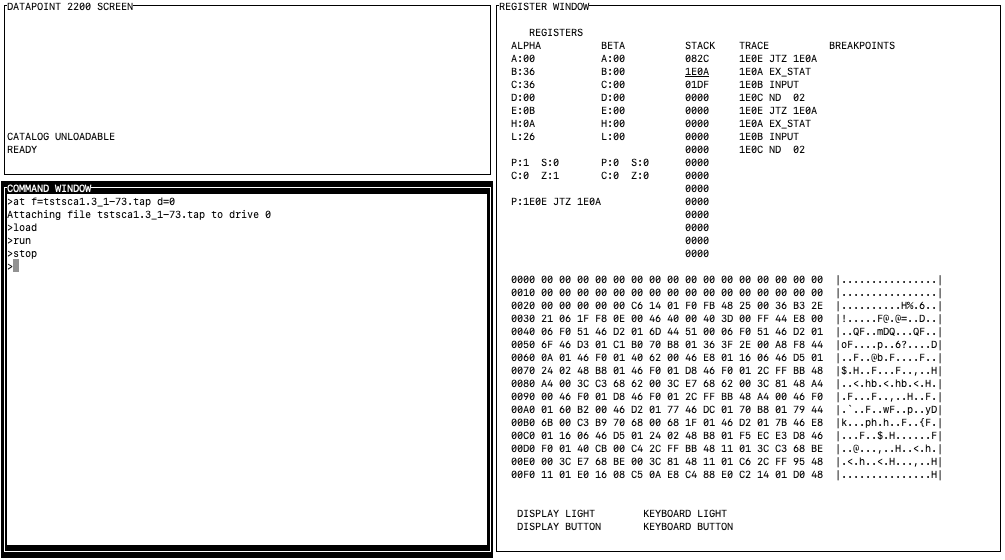
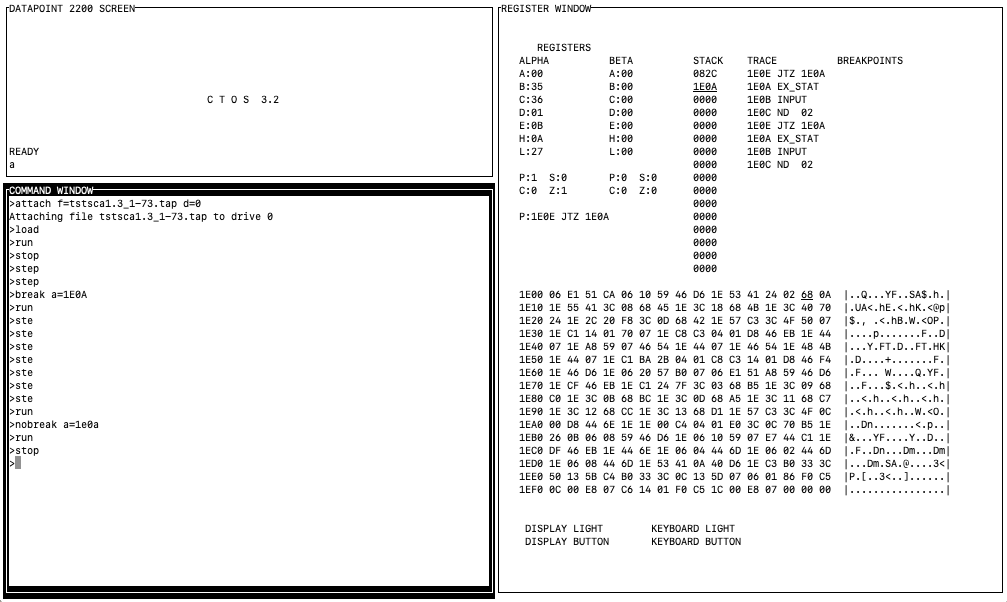
Now actually is able to start the CTIS opeating system.

Changed region(s): [[0.0, 0.0, 1.0, 1.0], [0.2159, 0.1518, 0.2776, 0.1821]]

diff --git a/dp2200sim/dp2200_io_sim.cpp b/dp2200sim/dp2200_io_sim.cpp
@@ -141,22 +141,36 @@ int IOController::CassetteDevice::exDeck2() {
   return 0;
 }
 int IOController::CassetteDevice::exRBK() {
-  return 1;
+  tapeDrive[tapeDeckSelected]->setTapeDirectionForward(true);
+  tapeDrive[tapeDeckSelected]->setStopAttBlockGap(true);
+  statusRegister &= ~(CASSETTE_STATUS_DECK_READY | CASSETTE_STATUS_READ_READY); // Clear ready bit
+  tapeDrive[tapeDeckSelected]->readByte(std::bind(&IOController::CassetteDevice::updateDataRegisterAndSetStatusRegister, this, std::placeholders::_1));
+  return 0;
 }
 int IOController::CassetteDevice::exWBK() {
   return 1;
 }
 int IOController::CassetteDevice::exBSP() {
-  statusRegister |= (CASSETTE_STATUS_INTER_RECORD_GAP);
+  tapeDrive[tapeDeckSelected]->setTapeDirectionForward(false);
+  tapeDrive[tapeDeckSelected]->setStopAttBlockGap(true);
+  statusRegister &= ~(CASSETTE_STATUS_DECK_READY | CASSETTE_STATUS_READ_READY); // Clear ready bit
+  tapeDrive[tapeDeckSelected]->readByteBackwards(std::bind(&IOController::CassetteDevice::updateDataRegisterAndSetStatusRegister, this, std::placeholders::_1));
+
   return 0;
 }
 int IOController::CassetteDevice::exSF() {
+  tapeDrive[tapeDeckSelected]->setTapeDirectionForward(true);
+  tapeDrive[tapeDeckSelected]->setStopAttBlockGap(false);
   statusRegister &= ~(CASSETTE_STATUS_DECK_READY | CASSETTE_STATUS_READ_READY); // Clear ready bit
   tapeDrive[tapeDeckSelected]->readByte(std::bind(&IOController::CassetteDevice::updateDataRegisterAndSetStatusRegister, this, std::placeholders::_1));
   return 0;
 }
 int IOController::CassetteDevice::exSB() {
-  return 1;
+  tapeDrive[tapeDeckSelected]->setTapeDirectionForward(false);
+  tapeDrive[tapeDeckSelected]->setStopAttBlockGap(false);
+  statusRegister &= ~(CASSETTE_STATUS_DECK_READY | CASSETTE_STATUS_READ_READY); // Clear ready bit
+  tapeDrive[tapeDeckSelected]->readByteBackwards(std::bind(&IOController::CassetteDevice::updateDataRegisterAndSetStatusRegister, this, std::placeholders::_1));
+  return 0;
 }
 int IOController::CassetteDevice::exRewind() {
   return 1;
@@ -176,8 +190,8 @@ void IOController::CassetteDevice::updateDataRegisterAndSetStatusRegister( unsig
 IOController::CassetteDevice::CassetteDevice () {
   tapeRunning = false;
   tapeDeckSelected = 1;   
-  tapeDrive[0] = new CassetteTape(std::bind(&IOController::CassetteDevice::updateTapGapFlag, this, std::placeholders::_1));
-  tapeDrive[1] = new CassetteTape(std::bind(&IOController::CassetteDevice::updateTapGapFlag, this, std::placeholders::_1));
+  tapeDrive[0] = new CassetteTape(std::bind(&IOController::CassetteDevice::updateTapGapFlag, this, std::placeholders::_1), std::bind(&IOController::CassetteDevice::updateReadyFlag, this, std::placeholders::_1));
+  tapeDrive[1] = new CassetteTape(std::bind(&IOController::CassetteDevice::updateTapGapFlag, this, std::placeholders::_1), std::bind(&IOController::CassetteDevice::updateReadyFlag, this, std::placeholders::_1));
 }
 
 
@@ -203,6 +217,17 @@ void IOController::CassetteDevice::updateTapGapFlag(bool gap) {
     statusRegister &= ~(CASSETTE_STATUS_INTER_RECORD_GAP);
   }
 }
+
+void IOController::CassetteDevice::updateReadyFlag(bool gap) {
+  printLog("INFO", "Setting tap gap to %d\n", gap);
+  if (gap) {
+    statusRegister |= (CASSETTE_STATUS_DECK_READY);
+  } else {
+    statusRegister &= ~(CASSETTE_STATUS_DECK_READY);
+  }
+}
+
+
 
 unsigned char IOController::ScreenKeyboardDevice::input () {
   if (status) {

diff --git a/dp2200sim/cassetteTape.cpp b/dp2200sim/cassetteTape.cpp
@@ -9,9 +9,10 @@ class callbackRecord * addToTimerQueue(std::function<int(class callbackRecord *)
 
 void timeoutInNanosecs (struct timespec *, long);
 
-CassetteTape::CassetteTape(std::function<void(bool)> cb) {
+CassetteTape::CassetteTape(std::function<void(bool)> cb, std::function<void(bool)> rcb) {
   state=TAPE_GAP;
   tapeGapCb = cb;
+  deckReadyCb = rcb;
 }
 
 bool CassetteTape::openFile(std::string fileName) {
@@ -122,12 +123,12 @@ void CassetteTape::readByte(std::function<void(unsigned char)> cb) {
     //tapeGapCb(false);
     readBytes=0;
     //tapeGapCb(true);
-    timeout = 700000000;
+    timeout = 70000000;
     timeoutInNanosecs(&then, timeout);
     printLog("INFO", "Adding a readByteHandler to handle read in %d nanoseconds\n", timeout);
     outStandingCallbacks.push_back( addToTimerQueue([ct=this, tcb = tapeGapCb](class callbackRecord * c)->int {printLog("INFO", "70ms tapeGapCb(true) timeout ENTRY\n");ct->removeFromOutstandCallbacks(c); tcb(false);ct->timeoutReadByteHandler(); printLog("INFO", "70ms tapeGapCb(true) timeout EXIT\n");return 0;}, then));
   } else {
-    timeout = 28000000;
+    timeout = 2800000;
     timeoutInNanosecs(&then, timeout);
     printLog("INFO", "Adding a readByteHandler to handle read in %d nanoseconds\n", timeout);
     outStandingCallbacks.push_back( addToTimerQueue([ct=this](class callbackRecord * c)->int {ct->removeFromOutstandCallbacks(c);ct->timeoutReadByteHandler(); return 0;}, then));
@@ -156,6 +157,7 @@ int CassetteTape::timeoutReadByteHandler() {
     printLog("INFO", "timeoutReadByteHandler read end of record size marker = %d \n", dummy);
     if (stopAtTapeGap) {
       stopTapeMotion();
+      deckReadyCb(true);
     } else {
       readByte(readCb);
     }
@@ -217,11 +219,12 @@ int CassetteTape::timeoutReadByteBackwardsHandler() {
     printLog("INFO", "timeoutReadByteHandler read end of record size marker = %d \n", dummy);
     if (stopAtTapeGap) {
       stopTapeMotion();
+      deckReadyCb(true);
     } else {
-      readByte(readCb);
+      readByteBackwards(readCb);
     }
   } else {
-    readByte(readCb);
+    readByteBackwards(readCb);
   }
   data = (data & 0x80) >> 7 | (data & 0x40) >> 5 | (data & 0x20) >> 3 | (data & 0x10) >> 1 | (data & 0x8) << 1 | (data & 0x4) << 3 | (data & 0x2) << 5 | (data & 0x1) <<7;
   readCb(data); // data has to be reversed bit order for backwards reading!

diff --git a/dp2200sim/cassetteTape.h b/dp2200sim/cassetteTape.h
@@ -22,11 +22,12 @@ class CassetteTape {
   bool stopAtTapeGap;
   std::function<void(unsigned char)> readCb;
   std::function<void(bool)> tapeGapCb;
+  std::function<void(bool)> deckReadyCb;
   std::vector<class callbackRecord *>outStandingCallbacks;
   void removeFromOutstandCallbacks (class callbackRecord *);
   public:
 
-  CassetteTape(std::function<void(bool)> );
+  CassetteTape(std::function<void(bool)>, std::function<void(bool)> );
 
   bool openFile (std::string fileName);
   void closeFile ();

diff --git a/dp2200sim/dp2200_io_sim.h b/dp2200sim/dp2200_io_sim.h
@@ -60,6 +60,7 @@ class IOController {
     bool tapeRunning; 
     int tapeDeckSelected;
     void updateTapGapFlag(bool);
+    void updateReadyFlag(bool);
     public:
     CassetteTape * tapeDrive[2];
     unsigned char input ();

diff --git a/dp2200sim/README.md b/dp2200sim/README.md
@@ -2,10 +2,13 @@
 
 PLEASE NOTE!  STILL WORK IN PROGRESS.<BR> 
 
-It can run and stepp through programs. Breakpoint can be used. Work ongoing to support tape cassette IO.
-At this point it is able to load the first program into memory and it starts executing it and halts because keyboard / crt IO is not implemented. I consider this as major leap forward!
+It can run and step through programs. Breakpoint can be used. 
+At this point it is able to load the first program into memory and it starts the simple CTOS 3.2 operating system and give a ready prompt.
 
-![Screen shot](https://raw.githubusercontent.com/MattisLind/DP2200/main/dp2200sim/dp2200sim.png)
+More work on getting the keyboard to give input is now required.
+
+
+[![Watch the video](https://i.imgur.com/vSpatoKh.png)](https://youtu.be/QHUuPtVpjNc)
 
 Build the simulator using make.
 
